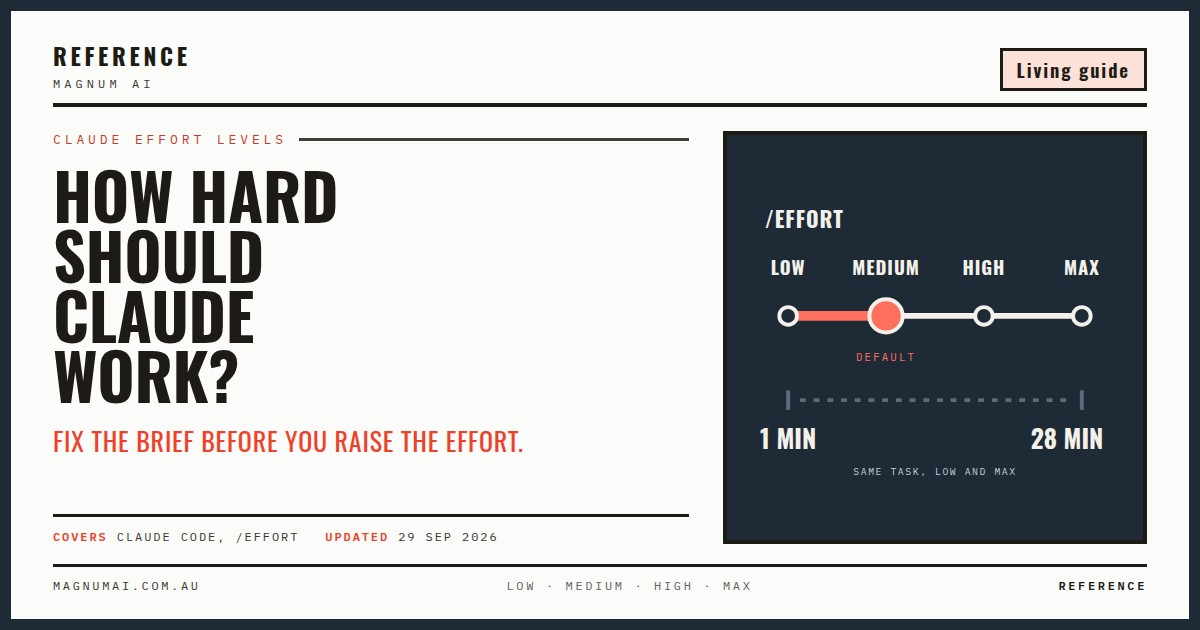
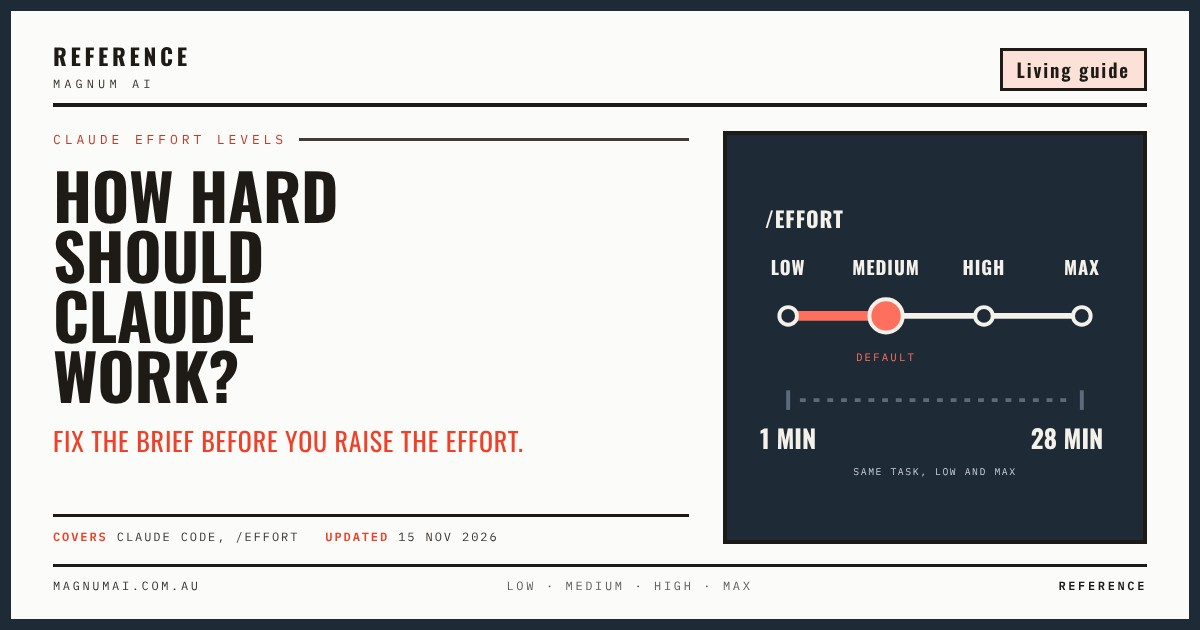
Effort guide: which model to pick; Brand DNA: plugins beside custom GPTs
Effort guide 1.3: new section 04 on picking a model as well as a level,
sections renumbered, dates moved to 15 Nov, card re-rendered.
Brand DNA prompt 10.1 and the prep checklist name a ChatGPT project or
plugin, since custom GPTs retire on 11 Dec. Fact register row 162.
Approved by James on 15 Nov from the Sunday Brief.

Claude-Session: https://claude.ai/code/session_01Vds57YeqKU3Vmq2sNhpt51

diff --git a/effort/index.html b/effort/index.html
@@ -96,7 +96,7 @@
 <header class="masthead"><div class="wrap">
     <h1>Effort doesn't make Claude <em>smarter</em></h1>
     <p class="sub">It decides how hard Claude checks its own work, and how often it stops to ask you. Here's which level to use, and when.</p>
-    <p class="meta">Updated 29 Sep 2026</p>
+    <p class="meta">Updated 15 Nov 2026</p>
   </div></header>
   <div class="wrap">
   <figure class="ill">
@@ -147,8 +147,33 @@
     </div>
   </section>
 
+  <section id="models">
+    <p class="label" data-n="04">Which model, as well as which level</p>
+    <p class="lead">Effort is one dial. The model is the other. The advice from Anthropic in November is to start in the middle and only move when the job tells you to.</p>
+    <div class="tablewrap stack">
+      <table>
+        <thead><tr><th>Model</th><th>Use it for</th><th>Business example</th></tr></thead>
+        <tbody>
+          <tr><td class="lvl">Opus 5.5, on medium</td><td data-h="Use it for">Everyday work. Start here.</td><td data-h="Business example">Writing up a process, a quote, the weekly report</td></tr>
+          <tr><td class="lvl">Sonnet 5.5 or Haiku 5.5</td><td data-h="Use it for">Simple jobs you do over and over</td><td data-h="Business example">Sorting enquiries, tagging receipts, pulling names out of emails</td></tr>
+          <tr><td class="lvl">Fable 5.2</td><td data-h="Use it for">The one big job</td><td data-h="Business example">Planning a whole build, a hard piece of analysis</td></tr>
+        </tbody>
+      </table>
+    </div>
+    <p style="margin-top:20px">The top model also uses up your plan's allowance faster than any other Claude. So it's the specialist you call in, not the one you leave on.</p>
+    <p>Two habits make the difference.</p>
+    <ul class="buys">
+      <li><strong>Try the dial before you swap the model.</strong> If you're already above high, the next model up on a lower setting is often cheaper and just as good.</li>
+      <li><strong>Don't change model halfway through a chat.</strong> The new one rereads the whole chat from scratch. Plan on the big model, ask it for a handover note, then start a fresh chat for the build.</li>
+    </ul>
+    <div class="flag">
+      <strong>Where this comes from</strong>
+      <p>Anthropic's own advice, as two newsletters reported it in November 2026. We couldn't open Anthropic's page from here, and the handover habit comes from one newsletter writer. Model names change every few months. The rule of thumb won't.</p>
+    </div>
+  </section>
+
   <section id="brief">
-    <p class="label" data-n="04">The brief beats the setting</p>
+    <p class="label" data-n="05">The brief beats the setting</p>
     <p class="lead">This was the finding that stood out. When Anthropic gave Claude a detailed brief, every effort level came back with much the same result. The vague brief was where the levels split apart.</p>
     <p>Which makes sense. Give a new staff member a proper handover and they'll do a good job whether they rush it or not. Give them two lines and "you'll work it out", and suddenly how hard they try matters a lot.</p>
     <p>That's why the brief comes first. The <a href="../prompts/#six-lines">six-line checklist</a> is one quick way to write it: Role, Context, Constraints, Tone, Format, Output. Get those clear and Claude has less to guess. Less guessing means a lower setting does the job, and does it faster.</p>
@@ -156,7 +181,7 @@
   </section>
 
   <section id="loop">
-    <p class="label" data-n="05">The working loop</p>
+    <p class="label" data-n="06">The working loop</p>
     <p>Use this for anything you're building with Claude.</p>
     <ol class="loop">
       <li>Give Claude your brief and ask it to interview you about anything missing.</li>
@@ -170,7 +195,7 @@
   </section>
 
   <section id="check">
-    <p class="label" data-n="06">Quick check before you start</p>
+    <p class="label" data-n="07">Quick check before you start</p>
     <p>Two questions.</p>
     <ul class="buys">
       <li><strong>Do I want to stay in the loop?</strong> Yes: low or medium. No: high or max.</li>
@@ -185,6 +210,7 @@
       <table>
         <thead><tr><th>Date</th><th>Version</th><th>What changed</th></tr></thead>
         <tbody>
+          <tr><td style="white-space:nowrap">15 Nov 2026</td><td>1.3</td><td>New section, Which model, as well as which level, for Fable 5.2 and Anthropic's November advice on picking a model. The effort advice is unchanged.</td></tr>
           <tr><td style="white-space:nowrap">5 Oct 2026</td><td>1.2</td><td>One line in The brief beats the setting now puts the brief first and the checklist second. Same advice.</td></tr>
           <tr><td style="white-space:nowrap">29 Sep 2026</td><td>1.1</td><td>Rewritten in plainer language. Same advice.</td></tr>
           <tr><td style="white-space:nowrap">29 Sep 2026</td><td>1</td><td>First version, based on <a href="https://x.com/trq212/status/2103576349499855160">Anthropic's guidance on effort in Claude Code</a> (Opus 5.5, Fable 5.1)</td></tr>
@@ -199,7 +225,7 @@
   </div>
 <footer>
   <span>Magnum AI · magnumai.com.au</span>
-  <span>Last updated · 29 September 2026</span>
+  <span>Last updated · 15 November 2026</span>
   <span><a href="../" style="color:inherit">Members area</a></span>
 </footer>
 <script src="../assets/site.js"></script>

diff --git a/brand-dna/index.html b/brand-dna/index.html
@@ -730,7 +730,7 @@ Don't change any file. No new slogans or taglines, and a comma or a full stop wh
 <button class="copy" type="button">Copy</button>
 <pre>You're setting up our AI tools so they all follow one brand. Make every AI tool we use read our Brand DNA first. We're [business name]. Our brand-dna folder holds brand-dna.md, the one document that holds our brand. The folder lives at [where the folder lives].
 
-Step 1, find. List every place an AI tool of ours gets instructions or brand rules: project instructions and project files, folder instructions, global or personal instructions, skills, scheduled tasks and routines, custom assistants or GPTs, brand kits, and every rule, style or "HQ" document in the sources folder. Our tools are [the AI tools we use]. Check what you can see yourself. For anything you can't see, ask us to paste its current instructions.
+Step 1, find. List every place an AI tool of ours gets instructions or brand rules: project instructions and project files, folder instructions, global or personal instructions, skills, scheduled tasks and routines, custom assistants, ChatGPT plugins or GPTs, brand kits, and every rule, style or "HQ" document in the sources folder. Our tools are [the AI tools we use]. Check what you can see yourself. For anything you can't see, ask us to paste its current instructions.
 
 Step 2, plan. Show us a table with one row per place: how it reads files (it can open the folder, it works from uploaded copies, or it holds settings rather than instructions), what it says about our brand now, what it should say, and whether its old rules should be merged into the Brand DNA, retired, or left alone. For each rule to merge, quote the exact line you'd add and the section it goes in. Quote any old rule that contradicts brand-dna.md and say which way you'd settle it. If any of our agents run in the cloud on a schedule, check they can reach [where the folder lives], because a cloud routine can't see files on this computer, and tell us if they can't.
 
@@ -739,7 +739,7 @@ Step 3, wait. Change nothing until we say yes. We may approve some rows and not 
 Step 4, apply what we approved.
 - Where a tool can open the folder, put this block at the top of its instructions, word for word, and remove the old brand rules under it that we approved retiring:
 "Before making anything for [business name], read brand-dna.md in our brand-dna folder at [where the folder lives]. Follow it over anything else in these instructions. If a request conflicts with it, stop and ask us which wins, then add a line to changelog.md with the date, the request, the conflict and our answer."
-- Where a tool works from uploaded copies, such as project files or a custom GPT, upload brand-dna.md there, use this block instead, and remove the old brand rules we approved retiring. Under "Copy last replaced" in changelog.md write "not yet", and when we say we've uploaded it, write the date:
+- Where a tool works from uploaded copies, such as project files or a ChatGPT project or plugin, upload brand-dna.md there, use this block instead, and remove the old brand rules we approved retiring. Under "Copy last replaced" in changelog.md write "not yet", and when we say we've uploaded it, write the date:
 "Before making anything for [business name], read the brand-dna.md uploaded here and follow it over anything else in these instructions. If a request conflicts with it, stop and ask us which wins, and remind us to log the answer in changelog.md."
 - Where a place holds settings rather than instructions, such as a brand kit, list each value to change, old and new. Where it has a small brand voice box, give us "The short version" from the top of brand-dna.md to paste, and list that box under "Where the Brand DNA is used" with today's date.
 - Where you can't edit a place yourself, such as instructions in a settings page, give us the exact text to paste and say where it goes.

diff --git a/brand-dna/prep.html b/brand-dna/prep.html
@@ -94,7 +94,7 @@
       <li><label><input type="checkbox" data-k="love"><span class="what">Five posts you love</span><span class="why">Yours or anyone's, any platform. Screenshots or links, with one line on what you like about each.</span></label></li>
       <li><label><input type="checkbox" data-k="never"><span class="what">Five posts you would never make</span><span class="why">The same, the other way. These teach your AI tools as much as the ones you love.</span></label></li>
       <li><label><input type="checkbox" data-k="phrases"><span class="what">Your phrases</span><span class="why">How you sign off, how you greet people, words you always use, and words that make you cringe. A quick list in a note is fine.</span></label></li>
-      <li><label><input type="checkbox" data-k="rules"><span class="what">Every rule document you have</span><span class="why">Brand guides, style guides, an "about us" or HQ document, instructions in a Claude project, a custom GPT or any other AI assistant, and the brand kit or brand settings from any design tool you use. <b>Even the old ones, and especially the ones that disagree with each other.</b></span></label></li>
+      <li><label><input type="checkbox" data-k="rules"><span class="what">Every rule document you have</span><span class="why">Brand guides, style guides, an "about us" or HQ document, instructions in a Claude project, a ChatGPT project or plugin (or an old custom GPT), or any other AI assistant, and the brand kit or brand settings from any design tool you use. <b>Even the old ones, and especially the ones that disagree with each other.</b></span></label></li>
       <li><label><input type="checkbox" data-k="photos"><span class="what">Ten to twenty real photos</span><span class="why">You, your work, your space, your products. Only photos you are happy to see used publicly, and tell us about any with people in them who have not agreed to that.</span></label></li>
     </ul>
     <p class="tally" id="tally">0 of 7 ready</p>

diff --git a/effort/thumbnail.html b/effort/thumbnail.html
@@ -84,7 +84,7 @@ h1{font-family:'Oswald','Arial Narrow','Liberation Sans Narrow',sans-serif;font-
       <div class="kicker">Fix the brief before you raise the effort.</div>
       <div class="slug">
         <span><b>Covers</b> Claude Code, /effort</span>
-        <span><b>Updated</b> 29 Sep 2026</span>
+        <span><b>Updated</b> 15 Nov 2026</span>
       </div>
     </div>
 

diff --git a/CLAUDE.md b/CLAUDE.md
@@ -4321,3 +4321,5 @@ order of value:
 **Two small fixes, 1 Nov, on James's word.** Front page section headings now match the top bar words, so pressing Courses lands on Courses: "Your path" is Courses, "Use it every day" is Prompts, "The library" is Guides and tools. Ids unchanged. On `brand-dna/`, section 02's monospaced text tree (wrapped badly on a phone) is a `.dna` card now: navy filename bar, tinted short-version row, four parts with numbered section chips, and Gaps to fill. Contrast PASS with folds open, no sideways scroll at 390.
 
 **News pieces, from 11 Nov, at `news/`.** James's own articles go here, not into the Field Note (its one-card prompt shape cannot hold an article) and not into This Week in AI. First one: `news/brisbane-ai-summit-2026/`, retitled the same day at James's word to "Brisbane AI Summit: the businesses using AI properly are pulling ahead" (his own line from the opening), body his words verbatim (checked by script), built on the guide shell with a "News" kicker. Each numbered section opens with a house-style cartoon, `assets/illustrations/summit-01.jpg` to `-04.jpg`, made on Higgsfield (Nano Banana 2.1, 16:9) from his image briefs, and the brief lines are not published. No call to action, no date line (he removed the export line). Not linked from the front page or the Index: ask James before adding a library card. A hero cartoon (`summit-hero.jpg`, the domed hall with one man in coral taking notes) sits under the masthead at his request and is also the `og:image`. No dedicated share card yet.
+
+**Sunday Brief 15 Nov, and James's yes the same day.** The brief published two shelf cards, `coach-my-calls` and `build-a-tracker`, and improved `hard-conversation` (a rule on describing behaviour, a question asking for their side, a follow-up message). The shelf is 109 cards. Fact register rows 153 to 162. James approved both block B items in chat: `effort/` gained section 04, Which model, as well as which level (Opus 5.5 on medium for everyday work, Sonnet or Haiku for simple repeat jobs, Fable 5.2 for the big job), log row 1.3, dates moved to 15 Nov in the masthead, footer and card, card re-rendered; it carries a visible line saying the advice is newsletter-reported. Brand DNA prompt 10.1 and `brand-dna/prep.html` now name a ChatGPT project or plugin beside custom GPTs, which OpenAI retires on 11 Dec 2026. Not done: the walkthrough deck in Drive, the Brand DNA kit zip and the Brand Studio prompt copies still carry the old 10.1 wording; run `node tools/check-brand-dna.js --deck "<Drive path>" --fix` and `--export` from James's Mac next time the module is touched. James said the 15 Nov brief was too long; a shorter shape is with him to decide.

diff --git a/notes/fact-register.md b/notes/fact-register.md
@@ -291,3 +291,4 @@ every row is in `notes/tools-research/`, 01 to 04, with sources and grades.
 | 159 | ChatGPT retires Standard and Advanced Voice on 11 Dec 2026; GPT-Live becomes the only voice mode, except video and screen sharing | Recorded without being taught. Check any page that names Advanced Voice | 2026-11-15 | C, one newsletter |
 | 160 | A Claude project on the web can now save its own knowledge files, and can do it on a schedule | Would change the Files step in Make Claude Yours and the Set Up a Project Properly deck (rows 145, 152). Not taught until confirmed | 2026-11-15 | C, one newsletter, which says the change went unnoticed |
 | 161 | Grok Bot left beta as Grok Bot 1.0: bots join video meetings, Slack and Microsoft Teams, and a team can share one | Chatbots, Agents and Bots deck, Grok Bot slide (see row 142) | 2026-11-15 | B, three newsletters |
+| 162 | Anthropic's November 2026 advice on picking a model: Opus 5.5 at medium effort for everyday work, Sonnet 5.5 or Haiku 5.5 for simple repeat jobs, Fable 5.2 for the ambitious job; try a lower effort on the next model up before going above high. Separately, one newsletter: switching model mid-chat makes the new model reread the chat from scratch | `effort/` section 04, Which model, as well as which level | 2026-11-15 | C, two newsletters citing Anthropic's blog "Which Claude Model Should You Build With?"; search could not reach Anthropic's page. The handover habit is one newsletter writer's. The page carries a visible line saying so |
